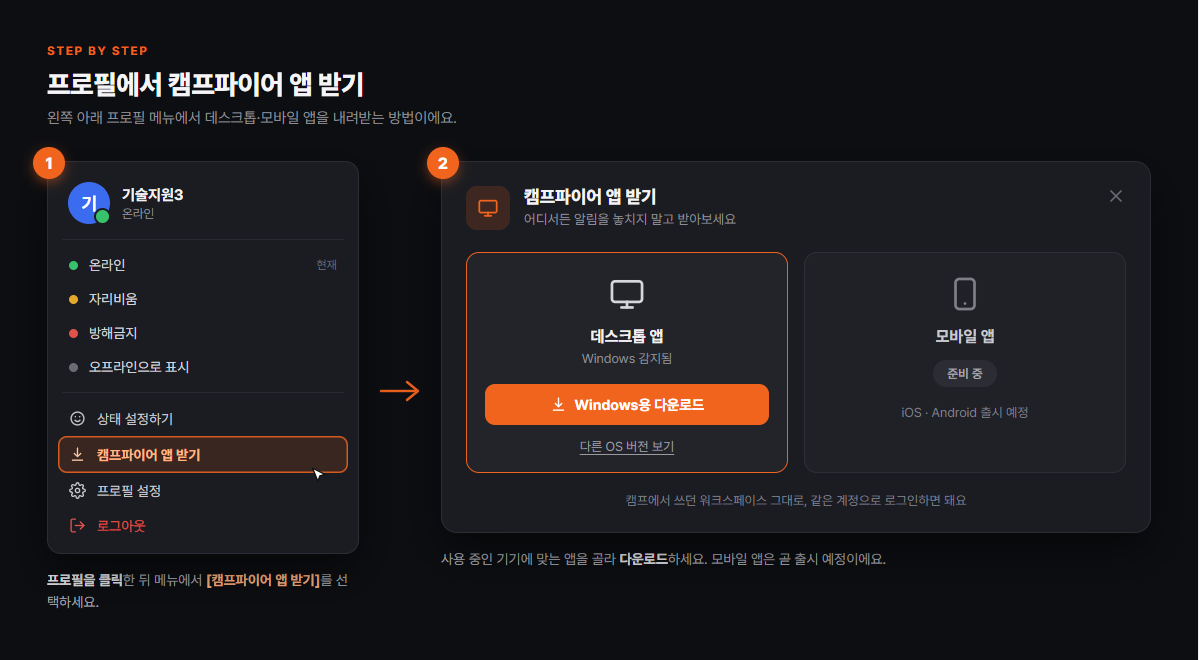
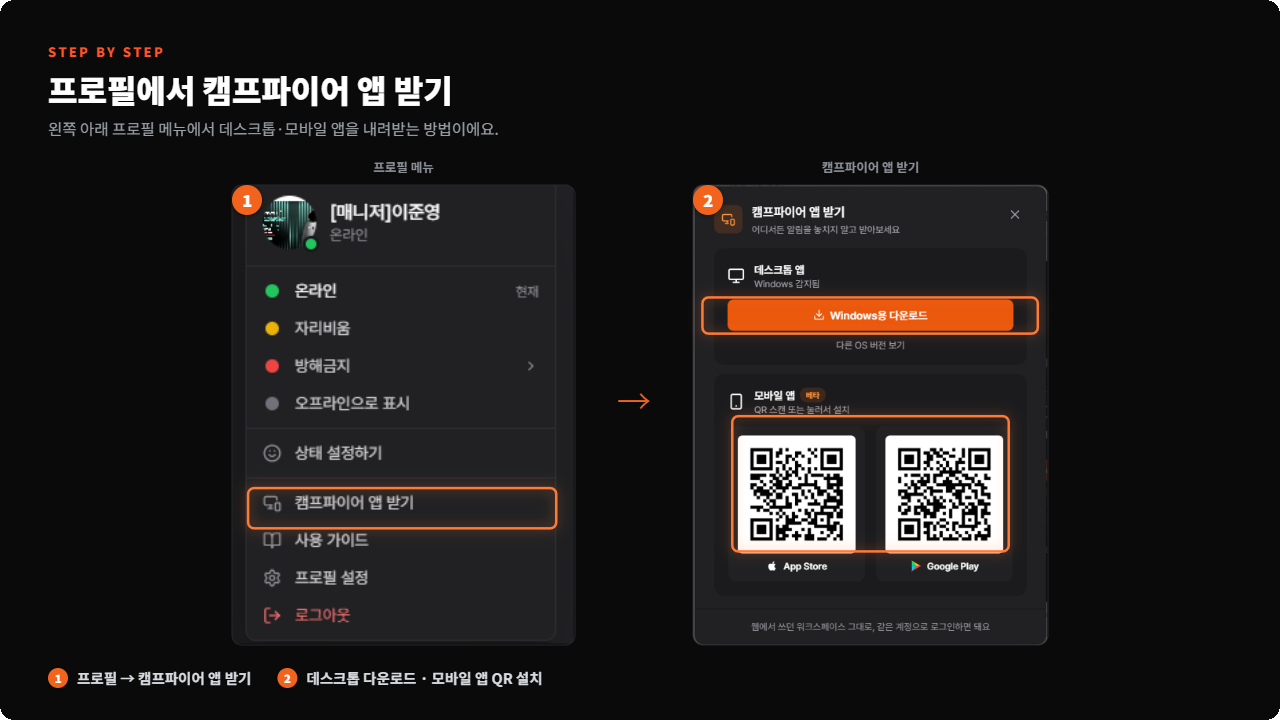
docs(campfire-guide): QR 확인·모바일 앱 반영 + 3종 가이드 정리·이미지 교체
- 채널 유형 QR 확인 상세: 매니저 채널 종류 이해하기(s4-1)·수강생 조퇴/외출 QR(s5-5)
  수강생 셀프 QR 발급(얼굴 인증→사유→발급), 매니저 전용 [모니터링]>[QR 조회]
  얼굴 인식 실패 시 [QR 확인하기] 버튼 비활성화
- 모바일 앱 출시 반영: 매니저·강사·수강생 3종 가이드 (QR로 App Store·Google Play 설치)
- 문구 정리: 🆕 마커 전부 제거, 가이드 간 사실 불일치 교정
  (강사 모바일 '출시 예정', 수강생 녹화 '설정 켜면' 등), 카메라 기본 켜짐 문구 통일
- 이미지: 앱 받기(매니저·수강생, 프로필→앱받기 흐름) 교체, QR 조회(매니저)·QR 확인(수강생) 신규

diff --git a/campfire/1-planning/campfire-guide/manager-data.js b/campfire/1-planning/campfire-guide/manager-data.js
@@ -47,7 +47,7 @@ const GUIDE_DATA = [
               <tr><td>공지 작성</td><td class="y">⭕</td><td class="n">❌</td><td class="n">❌</td><td class="n">❌</td><td class="n">❌</td></tr>
             </tbody>
           </table>
-          <div class="callout callout--info"><span class="callout__ico">ℹ</span><div><strong>멘토</strong>는 수강생과 동일한 권한입니다. <strong>보조강사</strong>는 강사처럼 <strong>화상 세션 개설</strong>이 가능하지만, 채널·멤버 관리·공지 작성 권한은 없습니다.<br>🆕 이 표는 <strong>기본값</strong>이며, <strong>설정(⚙) &gt; 역할</strong>에서 역할별 권한을 켜고 끌 수 있습니다 (5-3).</div></div>
+          <div class="callout callout--info"><span class="callout__ico">ℹ</span><div><strong>멘토</strong>는 수강생과 동일한 권한입니다. <strong>보조강사</strong>는 강사처럼 <strong>화상 세션 개설</strong>이 가능하지만, 채널·멤버 관리·공지 작성 권한은 없습니다.<br>이 표는 <strong>기본값</strong>이며, <strong>설정(⚙) &gt; 역할</strong>에서 역할별 권한을 켜고 끌 수 있습니다 (5-3).</div></div>
         `,
       },
     ],
@@ -66,7 +66,7 @@ const GUIDE_DATA = [
             <li>캠프파이어 공간은 어드민에서 <strong>훈련을 생성할 때 자동으로 함께 생성</strong>됩니다.</li>
             <li>매니저의 입장 권한은 어드민의 <strong>매니저 등록</strong>으로 부여됩니다.</li>
             <li>입장 경로는 <strong>내 강의실 → [캠프파이어 입장하기] 버튼</strong>이 기본입니다 (토큰 자동 인증).</li>
-            <li><strong>최초 입장 시 비밀번호 설정 화면</strong>이 나오며, 여기서 정한 비밀번호로 <strong>데스크톱 앱과 PC(웹)에서 동일 계정 로그인</strong>이 가능합니다. (모바일 앱은 출시 예정)</li>
+            <li><strong>최초 입장 시 비밀번호 설정 화면</strong>이 나오며, 여기서 정한 비밀번호로 <strong>데스크톱 앱·PC(웹)·모바일 앱에서 동일 계정 로그인</strong>이 가능합니다. <strong>모바일 앱이 출시</strong>되어 App Store·Google Play에서 설치할 수 있어요.</li>
             <li>여러 훈련을 담당하면 훈련별로 공간이 각각 생성되며, 입장 후에는 <strong>디스코드 서버처럼 공간 간 자유롭게 이동</strong>할 수 있습니다.</li>
           </ul>
           <p><strong>입장 흐름 요약</strong></p>
@@ -78,8 +78,12 @@ const GUIDE_DATA = [
             <span>(최초 1회)<br>비밀번호 설정</span><i>→</i>
             <span>입장 ✅</span>
           </div>
-          <p><strong>지원 환경 &amp; 앱 받기</strong> — Chrome 브라우저 권장. 좌측 하단 <strong>내 프로필 클릭 → [캠프파이어 앱 받기]</strong>에서 다운로드. 데스크톱 앱은 접속 OS를 자동 감지해 해당 버전을 보여줍니다([다른 OS 버전 보기]로 수동 선택 가능).</p>
-          <div class="shot">📸 스크린샷: 프로필 &gt; 캠프파이어 앱 받기 모달</div>
+          <p><strong>지원 환경 &amp; 앱 받기</strong> — Chrome 브라우저 권장. 좌측 하단 <strong>내 프로필 클릭 → [캠프파이어 앱 받기]</strong>에서 다운로드.</p>
+          <ul>
+            <li><strong>데스크톱 앱</strong> — 접속 OS를 자동 감지해 해당 버전을 보여줍니다 ([다른 OS 버전 보기]로 수동 선택 가능).</li>
+            <li><strong>모바일 앱</strong> — 같은 모달의 <strong>QR을 스캔하거나 눌러서 App Store·Google Play</strong>에서 설치. 캠에서 쓰던 워크스페이스 그대로 <strong>같은 계정으로 로그인</strong>하면 됩니다.</li>
+          </ul>
+          <div class="shot">📸 스크린샷: 프로필 &gt; 캠프파이어 앱 받기 모달 (데스크톱 + 모바일 QR)</div>
         `,
       },
       {
@@ -147,7 +151,7 @@ const GUIDE_DATA = [
                 <li><strong>최상단</strong>: 현재 입장한 훈련(공간) 이름 — 여기서 다른 공간으로 전환 (디스코드 서버 전환과 동일)</li>
                 <li><strong>강의 카드</strong>: 닫혀 있을 때 [열기]로 강의 시작, <strong>진행 중에는 [Live] 표시</strong>로 바뀜</li>
                 <li><strong>채널 목록</strong>: 카테고리(채널 / 강의 / 행정 / 기타)별 그룹화</li>
-                <li><strong>채널 아이콘</strong>: # 텍스트 / 📢 공지 / 🔒 비공개 / 🎤 화상</li>
+                <li><strong>채널 아이콘</strong>: # 텍스트 / 📢 공지 / 🎤 화상 / 🌐 임베드 / 🔳 QR 확인 / 🔒 비공개</li>
                 <li><strong>하단</strong>: DM 목록</li>
                 <li><strong>최하단</strong>: 내 프로필(상태 변경·앱 받기·로그아웃). 프로필 옆 <strong>톱니(⚙)는 공간 설정</strong>(운영 메뉴)으로 서로 다릅니다.</li>
               </ul>
@@ -174,14 +178,17 @@ const GUIDE_DATA = [
       {
         id: "s4-1", title: "채널 종류 이해하기",
         html: `
-          <p>채널 타입 4종 (생성 시 선택):</p>
+          <p>채널 타입 5종 (생성 시 선택):</p>
           <ul>
             <li><strong># 텍스트</strong> — 메시지·이미지·파일을 공유하는 기본 채널</li>
             <li><strong>📢 공지</strong> — <strong>매니저만 게시</strong>할 수 있는 공지 채널</li>
             <li><strong>🎤 화상</strong> — 화상·음성·화면 공유</li>
             <li><strong>🌐 임베드</strong> — 외부 페이지(부트캠프·YouTube 등)를 채널 안에 표시</li>
+            <li><strong>🔳 QR 확인</strong> — 수강생이 <strong>얼굴 인증 후 조퇴·외출을 스스로 신청</strong>하는 출결 채널</li>
           </ul>
+          <div class="callout callout--info"><span class="callout__ico">🔳</span><div><strong>QR 확인 채널이란?</strong> 수강생이 <strong>본인 얼굴을 인증</strong>한 뒤 <strong>조퇴·외출을 스스로 신청</strong>하는 출결 시스템입니다. 강사·매니저에게 매번 QR을 요청하지 않아도 돼요.<br>• <strong>수강생</strong>: 채널 입장 → 카메라로 <strong>본인 얼굴 인식이 성공해야</strong> 사유(조퇴·외출 등)를 입력하고 <strong>QR 코드를 직접 발급</strong>받습니다.<br>• <strong>매니저(전용)</strong>: QR을 찍은 수강생의 <strong>얼굴·시각 기록</strong>은 채널 <strong>하단 [모니터링] 버튼 → [QR 조회] 탭</strong>으로만 들어가 확인합니다. <strong>매니저만 열람</strong> 가능합니다.<br>• <strong>얼굴 인식 실패 시</strong>: 얼굴이 정상 인식돼야만 진행되며, 인식이 안 되면 <strong>[QR 확인하기] 버튼이 활성화되지 않습니다</strong>(사유 입력·QR 발급 불가).</div></div>
           <div class="callout callout--info"><span class="callout__ico">ℹ</span><div><strong>비공개</strong>는 타입이 아니라 <strong>옵션</strong>입니다 — 어떤 타입이든 생성 시 비공개 설정 가능(🔒). <strong>익명</strong>은 <strong>텍스트 유형에만</strong> 적용되는 옵션입니다.</div></div>
+          <div class="shot">📸 스크린샷: 매니저 [모니터링] 버튼 → [QR 조회] 탭 (수강생 QR 인증 기록)</div>
           <p>채널은 <strong>카테고리</strong>(채널 / 강의 / 행정 / 기타 / 화상 채널)로 묶어 정리할 수 있습니다.</p>
           <p><strong>권장 구조 예시(멋사 표준)</strong>: 📢 공지 / 💬 자유수다 / ❓질문 / 🎥 강의실 / 팀별 채널 …</p>
         `,
@@ -191,7 +198,7 @@ const GUIDE_DATA = [
         html: `
           <ol>
             <li>사이드바 카테고리명 옆 [+] 클릭 → '채널 만들기' 모달</li>
-            <li><strong>채널 유형 선택</strong>: 텍스트 / 공지 / 화상 / 임베드 / QR 확인 <span style="opacity:.7">(QR 확인 = 얼굴 인증 후 등록한 QR 이미지 확인)</span></li>
+            <li><strong>채널 유형 선택</strong>: 텍스트 / 공지 / 화상 / 임베드 / QR 확인 <span style="opacity:.7">(QR 확인 = 수강생 얼굴 인증 기반 셀프 조퇴·외출 출결 · 상세 4-1)</span></li>
             <li><strong>채널 이름 입력</strong> (예: 질문, 3주차-과제)</li>
             <li><strong>카테고리 선택</strong> — 기본값 '채널(기본)', 드롭다운에서 변경</li>
             <li>(선택) <strong>비공개 채널 토글</strong> — 관리자 자동 접근 허용·멤버 초대 옵션 노출</li>
@@ -279,7 +286,7 @@ const GUIDE_DATA = [
         html: `
           <ul>
             <li>역할 종류(기본 5종): <strong>매니저 / 강사 / 보조강사 / 멘토 / 수강생</strong></li>
-            <li>🆕 역할 표시 이름은 <strong>설정(⚙) &gt; 역할</strong>에서 변경 가능 (예: '매니저' → '운영매니저'). 화면 이름이 다르면 대응해 읽으세요.</li>
+            <li>역할 표시 이름은 <strong>설정(⚙) &gt; 역할</strong>에서 변경 가능 (예: '매니저' → '운영매니저'). 화면 이름이 다르면 대응해 읽으세요.</li>
           </ul>
           <p><strong>역할 부여 방법 3가지</strong></p>
           <ol>
@@ -292,7 +299,7 @@ const GUIDE_DATA = [
         `,
       },
       {
-        id: "s5-3", title: "역할 권한 & 표시 설정 🆕",
+        id: "s5-3", title: "역할 권한 & 표시 설정",
         html: `
           <p><strong>설정(⚙) &gt; 역할</strong>에서 각 역할의 <strong>표시(명칭·색·아이콘·순서)</strong>와 <strong>클래스 내 권한</strong>을 직접 설정할 수 있습니다. 예전에는 고정이던 역할별 권한을 이제 매니저가 켜고 끌 수 있어요.</p>
           <p><strong>여는 법</strong>: 설정(⚙) &gt; 역할 → 좌측에서 역할 선택(강사 / 보조강사 / 매니저 / 멘토 / 수강생)</p>

diff --git a/campfire/1-planning/campfire-guide/student-data.js b/campfire/1-planning/campfire-guide/student-data.js
@@ -35,7 +35,7 @@ const GUIDE_DATA = [
             <li>듣고 있는 과정 카드에서 <strong>[캠프파이어 입장하기]</strong> 버튼 클릭</li>
             <li>자동으로 입장돼요!</li>
           </ol>
-          <div class="callout callout--tip"><span class="callout__ico">💡</span><div><strong>처음 입장하면 비밀번호를 설정하는 화면이 나와요.</strong> 이 비밀번호로 앞으로 데스크톱 앱·PC에서 로그인할 수 있어요 (모바일 앱은 곧 출시 예정!). 비밀번호는 꼭 기억해 주세요!</div></div>
+          <div class="callout callout--tip"><span class="callout__ico">💡</span><div><strong>처음 입장하면 비밀번호를 설정하는 화면이 나와요.</strong> 이 비밀번호로 앞으로 데스크톱 앱·PC·모바일 앱에서 로그인할 수 있어요 (모바일 앱도 출시됐어요!). 비밀번호는 꼭 기억해 주세요!</div></div>
           <h4>매니저님이 초대 링크를 준 경우</h4>
           <ul>
             <li>받은 링크를 클릭하면 바로 입장할 수 있어요.</li>
@@ -55,7 +55,7 @@ const GUIDE_DATA = [
           <ul>
             <li><strong>앱 받기</strong>: 왼쪽 아래 프로필 → [캠프파이어 앱 받기]. 데스크톱 앱은 내 컴퓨터 OS를 자동 인식해 맞는 버튼을 보여줘요. 같은 계정으로 로그인하면 웹에서 쓰던 그대로예요.</li>
             <li><strong>PC</strong>: 앱이 없어도 <strong>Chrome 브라우저</strong>로 충분히 사용 가능 (Chrome 권장!).</li>
-            <li><strong>모바일</strong>: 앱(iOS·Android)은 출시 예정. 지금은 PC(Chrome) 이용을 권장해요.</li>
+            <li><strong>모바일</strong>: 앱(iOS·Android)이 <strong>출시됐어요!</strong> [캠프파이어 앱 받기] 모달의 <strong>QR을 스캔하거나 눌러서 App Store·Google Play</strong>에서 설치하고, 같은 계정으로 로그인하면 돼요. (수업 참여는 화면이 큰 PC·Chrome을 권장!)</li>
             <li>📢 <strong>공지 채널 알림은 꼭 켜주세요!</strong> 일정 변경·과제 마감 등 중요한 안내를 놓치지 않으려면 필수예요.</li>
           </ul>
           <div class="shot">📸 스크린샷: 프로필 > 캠프파이어 앱 받기</div>` },
@@ -138,7 +138,7 @@ const GUIDE_DATA = [
         html:`
           <ol>
             <li>수업 시간이 되면 강사님이 강의를 열어요. 사이드바 맨 위 <strong>[강의]</strong> 버튼이 <strong>[Live]</strong>로 바뀌면 클릭해서 참여하세요!</li>
-            <li>입장하면 <strong>카메라는 켜진 상태, 마이크는 꺼진 상태</strong>로 시작해요. 발언할 때 하단 🎤 버튼으로 마이크를 켜면 됩니다. (카메라는 출석 확인에 쓰이니 가능하면 켜 두세요)</li>
+            <li>입장하면 <strong>마이크는 꺼진 상태, 카메라는 켜진 상태</strong>로 시작해요. 발언할 때 하단 🎤 버튼으로 마이크를 켜면 됩니다. (카메라는 출석 확인에 쓰이니 수업 중에는 끄지 마세요)</li>
           </ol>
           <div class="callout callout--tip"><span class="callout__ico">💡</span><div>강사님이 <strong>수강생 호출</strong>을 보내면 알림이 와요. "아직 안 들어왔어요~" 신호이니 [강의] 버튼으로 들어와 주세요.</div></div>
           <div class="shot">📸 스크린샷: [강의] 버튼(Live) + 입장 직후 마이크/카메라 버튼</div>` },
@@ -171,6 +171,18 @@ const GUIDE_DATA = [
             <li>📸 <strong>출석은 카메라 화면 자동 캡처로 확인돼요</strong>: 수업 시간대에 약 <strong>10분마다 카메라 화면이 캡처</strong>돼 출석으로 기록돼요. 카메라가 꺼져 있으면 '스킵'으로 남아 출석 누락이 될 수 있으니 <strong>과정 규칙에 따라 카메라를 켜 두세요.</strong></li>
             <li>질문은 손들기 ✋ 또는 채팅 💬을 활용해요</li>
           </ul>` },
+      { id:"s5-5", title:"조퇴·외출할 때 (QR 스스로 받기)",
+        html:`
+          <p>이제 <strong>조퇴·외출</strong>이 필요할 때 매니저·강사님께 매번 QR을 요청하지 않아도 돼요. 사이드바의 <strong>QR 확인 채널</strong>에서 <strong>본인 얼굴만 인증하면 QR 코드를 직접 받을 수 있어요!</strong></p>
+          <ol>
+            <li>사이드바에서 <strong>QR 확인 채널</strong>에 들어가요.</li>
+            <li><strong>카메라로 본인 얼굴을 인증</strong>해요 — 얼굴이 정상적으로 인식돼야 다음 단계로 넘어가요.</li>
+            <li><strong>사유(조퇴·외출 등)를 입력</strong>해요.</li>
+            <li><strong>[QR 확인하기]</strong>를 눌러 <strong>내 QR 코드를 발급</strong>받아요.</li>
+          </ol>
+          <div class="callout callout--warn"><span class="callout__ico">⚠</span><div><strong>얼굴 인식이 안 되면 [QR 확인하기] 버튼이 눌리지 않아요.</strong> 밝은 곳에서 얼굴이 화면에 잘 보이도록 한 뒤 다시 시도하고, 계속 안 되면 매니저·강사님께 문의해 주세요.</div></div>
+          <div class="callout callout--tip"><span class="callout__ico">💡</span><div>QR을 언제 받았는지(얼굴·시간)는 매니저님이 확인할 수 있어요. 본인 확인용이니 <strong>꼭 본인이</strong> 인증해 주세요.</div></div>
+          <div class="shot">📸 스크린샷: QR 확인 채널 — 얼굴 인증 + [QR 확인하기]</div>` },
     ],
   },
   {
@@ -191,9 +203,9 @@ const GUIDE_DATA = [
     sections:[
       { id:"s7-0", title:"자주 묻는 질문",
         html:`
-          <details class="faq"><summary>Q. 지난 수업 녹화는 어디서 보나요?</summary><div>수업은 강사님이 녹화 설정을 켜면 녹화돼요. 녹화 영상을 보는 방법은 과정마다 다를 수 있으니(공유 링크, 별도 안내 등) 매니저님·강사님의 안내를 따라주세요.</div></details>
+          <details class="faq"><summary>Q. 지난 수업 녹화는 어디서 보나요?</summary><div>수업(정식 강의)은 별도 설정 없이 자동으로 녹화돼요. 녹화 영상을 보는 방법은 과정마다 다를 수 있으니(공유 링크, 별도 안내 등) 매니저님·강사님의 안내를 따라주세요.</div></details>
           <details class="faq"><summary>Q. 닉네임을 바꾸고 싶어요</summary><div>프로필에서 표시 이름을 바꿀 수 있어요. 다만 출석 확인·소통에 혼선이 생길 수 있으니 되도록 본명을 유지해 주세요.</div></details>
-          <details class="faq"><summary>Q. 모바일로도 수업을 들을 수 있나요?</summary><div>모바일 앱(iOS·Android)은 현재 출시 예정이에요. 출시되면 최초 입장 시 설정한 비밀번호로 앱에서도 로그인할 수 있어요. 지금은 화면이 큰 PC(Chrome 권장)로 참여하는 것을 추천해요.</div></details>` },
+          <details class="faq"><summary>Q. 모바일로도 수업을 들을 수 있나요?</summary><div>모바일 앱(iOS·Android)이 출시됐어요! [캠프파이어 앱 받기] 모달의 QR로 App Store·Google Play에서 설치하고, 최초 입장 시 설정한 비밀번호(같은 계정)로 로그인하면 돼요. 다만 수업 참여는 화면이 큰 PC(Chrome 권장)를 추천해요.</div></details>` },
     ],
   },
 ];

diff --git a/campfire/1-planning/campfire-guide/instructor-data.js b/campfire/1-planning/campfire-guide/instructor-data.js
@@ -49,9 +49,9 @@ const GUIDE_DATA = [
             <li>담당 훈련 카드의 <strong>[캠프파이어 입장하기]</strong> → 자동 입장</li>
           </ol>
           <ul>
-            <li><strong>최초 입장 시 비밀번호 설정 화면</strong>이 나옵니다. 이 비밀번호로 데스크톱 앱·PC(웹)에서 동일 계정 로그인 (모바일 앱 출시 예정).</li>
+            <li><strong>최초 입장 시 비밀번호 설정 화면</strong>이 나옵니다. 이 비밀번호로 데스크톱 앱·PC(웹)·모바일 앱에서 동일 계정 로그인이 가능합니다.</li>
             <li>토큰은 유효기간이 없어 만료로 인한 실패는 없습니다. 입장이 안 되면 <strong>강사 등록 여부</strong>부터 매니저에게 확인하세요.</li>
-            <li><strong>앱 받기</strong>: 좌측 하단 프로필 → [캠프파이어 앱 받기] (접속 OS 자동 감지).</li>
+            <li><strong>앱 받기</strong>: 좌측 하단 프로필 → [캠프파이어 앱 받기]. 데스크톱 앱은 접속 OS를 자동 감지하고, 모바일 앱은 같은 모달의 QR로 App Store·Google Play에서 설치할 수 있어요.</li>
           </ul>
           <div class="callout callout--warn"><span class="callout__ico">⚠</span><div><strong>강사 등록이 안 됐을 때</strong>: 내 강의실에 입장 카드 자체가 보이지 않습니다 → 담당 매니저에게 강사 부여를 요청하세요.</div></div>
           <div class="shot">📸 스크린샷: 프로필 > 캠프파이어 앱 받기</div>` },
@@ -63,7 +63,7 @@ const GUIDE_DATA = [
           </ul>` },
       { id:"i2-3", title:"오디오 / 비디오 장치 점검 ⭐ 첫 수업 전 필수",
         html:`
-          <div class="callout callout--tip"><span class="callout__ico">💡</span><div>강의는 <strong>마이크는 꺼진 상태, 카메라는 켜진 상태로 입장</strong>됩니다. 첫 수업 전에 어떤 장치가 잡히는지 미리 확인해두면 시작 직후 버벅이지 않아요.</div></div>
+          <div class="callout callout--tip"><span class="callout__ico">💡</span><div>강의에 입장하면 <strong>마이크는 꺼진 상태, 카메라는 켜진 상태</strong>입니다. 첫 수업 전에 어떤 장치가 잡히는지 미리 확인해두면 시작 직후 버벅이지 않아요.</div></div>
           <ul>
             <li>강의 입장 화면의 <strong>장치 드롭다운</strong>에서 사용할 카메라·마이크 선택</li>
             <li>권장 환경: Chrome 최신, 가능하면 유선 인터넷 + 헤드셋(에코 방지)</li>

diff --git a/campfire/1-planning/campfire-guide/images/_README-스크린샷-목록.md b/campfire/1-planning/campfire-guide/images/_README-스크린샷-목록.md
@@ -6,10 +6,11 @@
 
 | 파일 | 위치 | 내용 | |
 |---|---|---|---|
-| `manager-s2-1-1.png` | 2.시작하기 · 계정 & 입장 구조 이해하기 | 프로필 > 캠프파이어 앱 받기 모달 | ✅ |
+| `manager-s2-1-1.png` | 2.시작하기 · 계정 & 입장 구조 이해하기 | 프로필 > 캠프파이어 앱 받기 모달 (데스크톱 + 모바일 QR) | ✅ |
 | `manager-s2-4-1.png` | 2.시작하기 · 알림 설정 | 기본 알림 설정 (프로필 > 설정 > 알림 — 멘션만) | ✅ |
 | `manager-s2-4-2.png` | 2.시작하기 · 알림 설정 | 채널별 알림 설정 (채널 케밥 메뉴) | ✅ |
 | `manager-s3-1-1.png` | 3.화면 구성 · 화면 한눈에 보기 | 전체 화면에 ①~⑤ 번호를 오버레이한 이미지 1장 | ✅ |
+| `manager-s4-1-1.png` | 4.채널 관리 · 채널 종류 이해하기 (QR 확인) | 매니저 [모니터링] 버튼 > [QR 조회] 탭 (수강생 QR 인증 기록) | ✅ |
 | `manager-s4-2-1.png` | 4.채널 관리 · 채널 만들기 | [+] 버튼 위치 / 채널 만들기 모달 / 비공개 설정 + 멤버·그룹 초대 | ✅ |
 | `manager-s4-3-1.png` | 4.채널 관리 · 채널 권한 설정 (공개·비공개·익명) | 채널 권한 설정 화면 | ✅ |
 | `manager-s4-4-1.png` | 4.채널 관리 · 채널 정리 (이름 변경·비활성화·삭제) | 설정 > 채널 — 비활성화 버튼 | ✅ |
@@ -27,7 +28,7 @@
 | `manager-s8-5-1.png` | 8.운영 팁 모음 · 공간 기본 설정 (설정 > 일반) | 설정 > 일반 — 홈페이지 URL·배너 | ✅ |
 | `manager-s8-6-1.png` | 8.운영 팁 모음 · 카메라 자동 캡처 (출석 확인) | 설정 > 일반 — 카메라 자동 캡처 규칙·제외일 | ✅ |
 
-→ 매니저: 20장
+→ 매니저: 22장
 
 ## 강사 (instructor-data.js)
 
@@ -55,7 +56,7 @@
 |---|---|---|---|
 | `student-s2-1-1.png` | 2.시작하기 (첫날 따라하기) ⭐ · 입장하기 (가장 먼저!) | 내 강의실 캠프파이어 입장하기 버튼 | ✅ |
 | `student-s2-2-1.png` | 2.시작하기 (첫날 따라하기) ⭐ · 프로필 설정하기 | 프로필 설정 화면 | ✅ |
-| `student-s2-3-1.png` | 2.시작하기 (첫날 따라하기) ⭐ · 더 편하게 쓰기 (앱 & 알림) | 프로필 > 캠프파이어 앱 받기 | ✅ |
+| `student-s2-3-1.png` | 2.시작하기 (첫날 따라하기) ⭐ · 더 편하게 쓰기 (앱 & 알림) | 프로필 > 캠프파이어 앱 받기 (데스크톱 + 모바일 QR) | ✅ |
 | `student-s2-4-1.png` | 2.시작하기 (첫날 따라하기) ⭐ · 알림 설정 | 기본 알림 설정 (프로필 > 설정 > 알림 — 멘션만) | ✅ |
 | `student-s2-4-2.png` | 2.시작하기 (첫날 따라하기) ⭐ · 알림 설정 | 채널별 알림 설정 (채널 케밥 메뉴) | ✅ |
 | `student-s3-0-1.png` | 3.화면 둘러보기 · 화면 구성 & 주요 채널 | 전체 화면 + ①~③ 번호 표시 | ✅ |
@@ -65,8 +66,9 @@
 | `student-s5-1-1.png` | 5.화상 수업 참여하기 ⭐ · 수업 입장 | [강의] 버튼(Live) + 입장 직후 마이크/카메라 버튼 | ✅ |
 | `student-s5-4-1.png` | 5.화상 수업 참여하기 ⭐ · 강의 초대 받고 입장하기 | 강의 초대 알림 (입장하기 버튼) | ✅ |
 | `student-s5-2-1.png` | 5.화상 수업 참여하기 ⭐ · 수업 중 기능 (화면 아래 버튼들) | 이해도 체크 (강사 진행 / 수강생 응답) | ✅ |
+| `student-s5-5-1.png` | 5.화상 수업 참여하기 ⭐ · 조퇴·외출할 때 (QR 스스로 받기) | QR 확인 채널 — 얼굴 인증 + [QR 확인하기] | ✅ |
 
-→ 수강생: 12장
+→ 수강생: 14장
 
 ---
-**총 45장 중 45장 완료**
+**총 49장 중 49장 완료**
